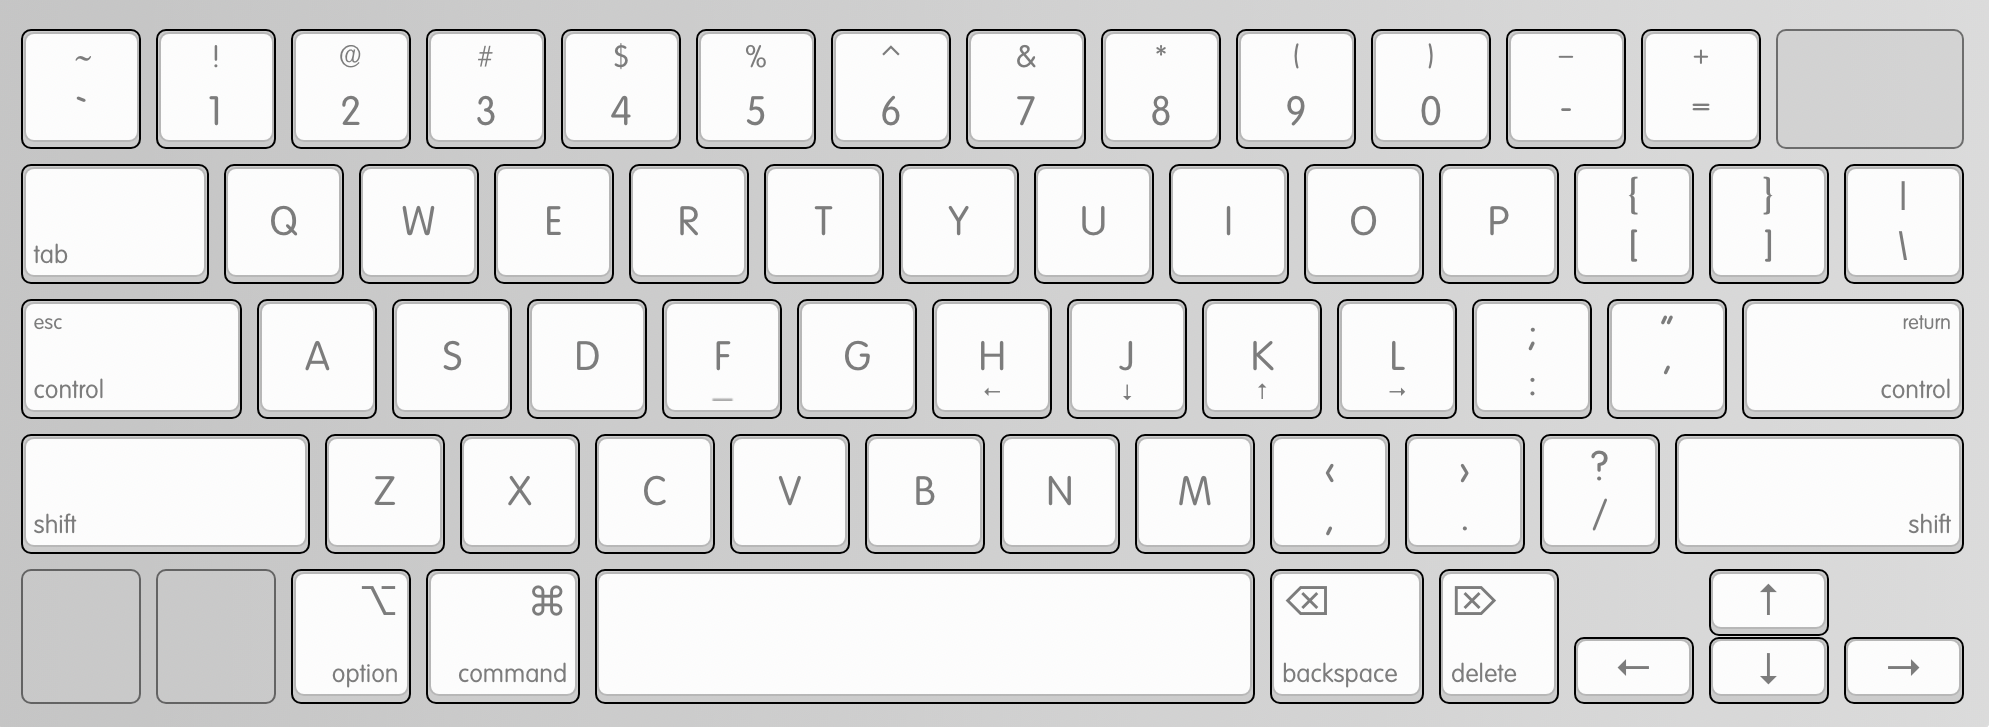
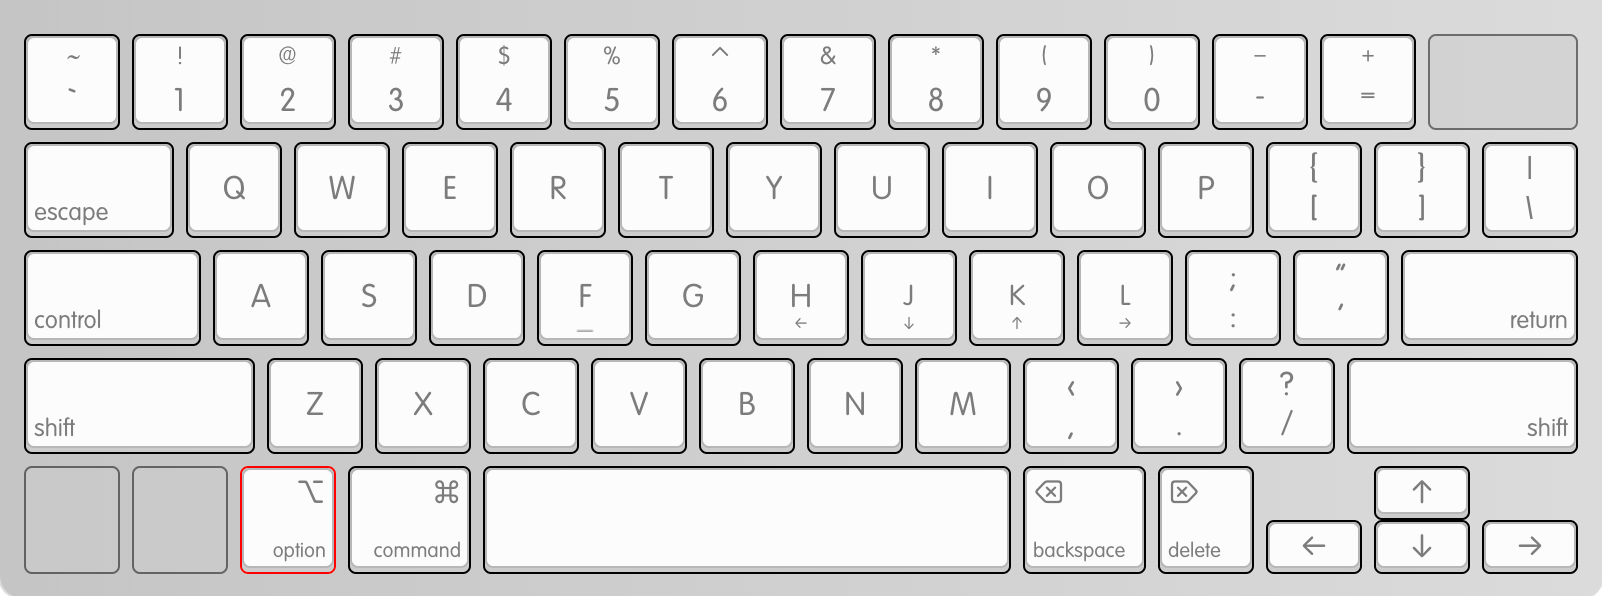
revert(karabiner): keyboard layout
I'm too used to the previous one, and don't have time to learn the new
one.

Changed region(s): [[0.0, 0.0302, 0.9988, 0.9966], [0.9675, 0.9664, 1.0, 1.0], [0.0, 0.9966, 0.0312, 1.0]]

diff --git a/README.md b/README.md
@@ -72,14 +72,14 @@ limactl snapshot create fedora40 --tag v1
 
 ## Keyboard layout
 
-- `caps lock` is `control` on hold, `esc` on tap.
-- `return` is `control` on hold.
+- `tab` is `escape`
 - `right command` and `right option` are `backspace` and `delete`.
 - `:` and `;` are swapped.
 
 [![keyboard](macOS/karabiner/keyboard_layout.png)][1]
 
-[1]: http://www.keyboard-layout-editor.com/##@_backcolor=%23dbdbdb&name=Apple%20Wireless%20Keyboard&author=Alistair%20Calder&radii=6px%206px%2012px%2012px%20%2F%2F%2018px%2018px%2012px%2012px&css=%2F@import%20url(http%2F:%2F%2F%2F%2Ffonts.googleapis.com%2F%2Fcss%3Ffamily%2F=Varela+Round)%2F%3B%0A%0A%23keyboard-bg%20%7B%20%0A%20%20%20%20background-image%2F:%20linear-gradient(to%20bottom,%20rgba(0,0,0,0.5)%200%25,%20rgba(0,0,0,0)%204%25,%20rgba(255,255,255,0.3)%206%25,%20rgba(0,0,0,0)%2010%25),%20%0A%20%20%20%20%20%20%20%20%20%20%20%20%20%20%20%20%20%20%20%20%20%20linear-gradient(to%20right,%20rgba(0,0,0,0.1)%200%25,%20rgba(0,0,0,0)%20100%25)%20!important%2F%3B%20%0A%7D%0A%0A.keylabel%20%7B%0A%20%20%20%20font-family%2F:%20'volkswagen%2F_serialregular'%2F%3B%0A%7D%0A%0A%2F%2F*%20Strangely,%20%22Volkswagen%20Serial%22%20doesn't%20have%20a%20tilde%20character%20*%2F%2F%0A.varela%20%7B%20%0A%20%20%20%20font-family%2F:%20'Varela%20Round'%2F%3B%20%0A%20%20%20%20display%2F:%20inline-block%2F%3B%20%0A%20%20%20%20font-size%2F:%20inherit%2F%3B%20%0A%20%20%20%20text-rendering%2F:%20auto%2F%3B%20%0A%20%20%20%20-webkit-font-smoothing%2F:%20antialiased%2F%3B%20%0A%20%20%20%20-moz-osx-font-smoothing%2F:%20grayscale%2F%3B%0A%20%20%20%20transform%2F:%20translate(0,%200)%2F%3B%0A%7D%0A.varela-tilde%2F:after%20%7B%20content%2F:%20%22%5C07e%22%2F%3B%20%7D&pcb:false&plate:false%3B&@_y:1.5&t=%23666666&p=CHICKLET&a:5&f:5&fa@:3%3B%3B&=%3Ci%20class%2F=%22varela%20varela-tilde%22%3E%3C%2F%2Fi%3E%0A%60&=!%0A1&=%2F@%0A2&=%23%0A3&=$%0A4&=%25%0A5&=%E2%8C%83%0A6&=%2F&%0A7&=*%0A8&=(%0A9&=)%0A0&_fa@:3&=undefined%3B%3B&=%E2%80%93%0A-&=+%0A%2F=&_g:true&a:4&f:2&w:1.5%3B&=%0A%0A%0Adelete%3B&@_g:false&w:1.5%3B&=%0Atab&_a:7&f:5%3B&=Q&=W&=E&=R&=T&=Y&=U&=I&=O&=P&_a:5%3B&=%7B%0A%5B&=%7D%0A%5D&=%7C%0A%5C%3B&@_a:4&f:2&fa@:1%3B&w:1.75%3B&=esc%0Acontrol&_a:7&f:5%3B&=A&=S&=D&_n:true%3B&=F&=G&_a:5&f2:1%3B&=%0A%E2%86%90%0A%0A%0A%0A%0AH&_f2:1%3B&=%0A%E2%86%93%0A%0A%0A%0A%0AJ&_f2:1%3B&=%0A%E2%86%91%0A%0A%0A%0A%0AK&_sm=alps&f2:1%3B&=%0A%E2%86%92%0A%0A%0A%0A%0AL&_f:5%3B&=%2F%3B%0A%2F:&_f:5%3B&=%22%0A'&_a:4&f:2&f2:1&w:1.75%3B&=%0A%0Areturn%0Acontrol%3B&@_f:2&w:2.25%3B&=%0Ashift&_a:7&f:5%3B&=Z&=X&=C&=V&=B&=N&=M&_a:5&fa@:6%3B%3B&=%3C%0A,&=%3E%0A.&_f:5%3B&=%3F%0A%2F%2F&_a:4&f:2&w:2.25%3B&=%0A%0A%0Ashift%3B&@_g:true&h:1.111%3B&=%0Afn&_fa@:0&:0&:5%3B&h:1.111%3B&=%0A%0A%E2%8C%83%0Acontrol&_g:false&h:1.111%3B&=%0A%0A%E2%8C%A5%0Aoption&_w:1.25&h:1.111%3B&=%0A%0A%E2%8C%98%0Acommand&_a:7&w:5&h:1.111%3B&=&_a:4&fa@:5%3B&w:1.25&h:1.111%3B&=%E2%8C%AB%0Abackspace&_h:1.111%3B&=%E2%8C%A6%0Adelete&_x:1&a:7&f:5&h:0.611%3B&=%E2%86%91%3B&@_y:-0.5&x:11.5&h:0.6111%3B&=%E2%86%90&_h:0.6111%3B&=%E2%86%93&_h:0.6111%3B&=%E2%86%92
+[1]:
+http://www.keyboard-layout-editor.com/##@_backcolor=%23dbdbdb&name=Apple%20Wireless%20Keyboard&author=Alistair%20Calder&radii=6px%206px%2012px%2012px%20%2F%2F%2018px%2018px%2012px%2012px&css=%2F@import%20url(http%2F:%2F%2F%2F%2Ffonts.googleapis.com%2F%2Fcss%3Ffamily%2F=Varela+Round)%2F%3B%0A%0A%23keyboard-bg%20%7B%20%0A%20%20%20%20background-image%2F:%20linear-gradient(to%20bottom,%20rgba(0,0,0,0.5)%200%25,%20rgba(0,0,0,0)%204%25,%20rgba(255,255,255,0.3)%206%25,%20rgba(0,0,0,0)%2010%25),%20%0A%20%20%20%20%20%20%20%20%20%20%20%20%20%20%20%20%20%20%20%20%20%20linear-gradient(to%20right,%20rgba(0,0,0,0.1)%200%25,%20rgba(0,0,0,0)%20100%25)%20!important%2F%3B%20%0A%7D%0A%0A.keylabel%20%7B%0A%20%20%20%20font-family%2F:%20'volkswagen%2F_serialregular'%2F%3B%0A%7D%0A%0A%2F%2F*%20Strangely,%20%22Volkswagen%20Serial%22%20doesn't%20have%20a%20tilde%20character%20*%2F%2F%0A.varela%20%7B%20%0A%20%20%20%20font-family%2F:%20'Varela%20Round'%2F%3B%20%0A%20%20%20%20display%2F:%20inline-block%2F%3B%20%0A%20%20%20%20font-size%2F:%20inherit%2F%3B%20%0A%20%20%20%20text-rendering%2F:%20auto%2F%3B%20%0A%20%20%20%20-webkit-font-smoothing%2F:%20antialiased%2F%3B%20%0A%20%20%20%20-moz-osx-font-smoothing%2F:%20grayscale%2F%3B%0A%20%20%20%20transform%2F:%20translate(0,%200)%2F%3B%0A%7D%0A.varela-tilde%2F:after%20%7B%20content%2F:%20%22%5C07e%22%2F%3B%20%7D&pcb:false&plate:false%3B&@_y:1.5&t=%23666666&p=CHICKLET&a:5&f:5&fa@:3%3B%3B&=%3Ci%20class%2F=%22varela%20varela-tilde%22%3E%3C%2F%2Fi%3E%0A%60&=!%0A1&=%2F@%0A2&=%23%0A3&=$%0A4&=%25%0A5&=%E2%8C%83%0A6&=%2F&%0A7&=*%0A8&=(%0A9&=)%0A0&_fa@:3&=undefined%3B%3B&=%E2%80%93%0A-&=+%0A%2F=&_g:true&a:4&f:2&w:1.5%3B&=%0A%0A%0Adelete%3B&@_g:false&f:3&w:1.5%3B&=%0Aescape&_a:7&f:5%3B&=Q&=W&=E&=R&=T&=Y&=U&=I&=O&=P&_a:5%3B&=%7B%0A%5B&=%7D%0A%5D&=%7C%0A%5C%3B&@_a:4&f:3&w:1.75%3B&=%0Acontrol&_a:7&f:5%3B&=A&=S&=D&_n:true%3B&=F&=G&_a:5&fa@:0&:1&:0&:0&:0&:0&:0%3B%3B&=%0A%E2%86%90%0A%0A%0A%0A%0AH&_fa@:0&:1&:0&:0&:0&:0&:4%3B%3B&=%0A%E2%86%93%0A%0A%0A%0A%0AJ&=%0A%E2%86%91%0A%0A%0A%0A%0AK&_sm=alps%3B&=%0A%E2%86%92%0A%0A%0A%0A%0AL&_f:5%3B&=%2F%3B%0A%2F:&_f:5%3B&=%22%0A'&_a:4&f:3&w:1.75%3B&=%0A%0A%0Areturn%3B&@_w:2.25%3B&=%0Ashift&_a:7&f:5%3B&=Z&=X&=C&=V&=B&=N&=M&_a:5&fa@:6%3B%3B&=%3C%0A,&=%3E%0A.&_f:5%3B&=%3F%0A%2F%2F&_a:4&f:3&w:2.25%3B&=%0A%0A%0Ashift%3B&@_g:true&f:2&h:1.111%3B&=%0Afn&_fa@:0&:0&:5%3B&h:1.111%3B&=%0A%0A%E2%8C%83%0Acontrol&_g:false&h:1.111%3B&=%0A%0A%E2%8C%A5%0Aoption&_w:1.25&h:1.111%3B&=%0A%0A%E2%8C%98%0Acommand&_a:7&w:5&h:1.111%3B&=&_a:4&fa@:5&:0&:5&:0%3B&w:1.25&h:1.111%3B&=%E2%8C%AB%0Abackspace&_h:1.111%3B&=%E2%8C%A6%0Adelete&_x:1&a:7&f:5&h:0.611%3B&=%E2%86%91%3B&@_y:-0.5&x:11.5&h:0.6111%3B&=%E2%86%90&_h:0.6111%3B&=%E2%86%93&_h:0.6111%3B&=%E2%86%92
 
 ## Key mappings
 
